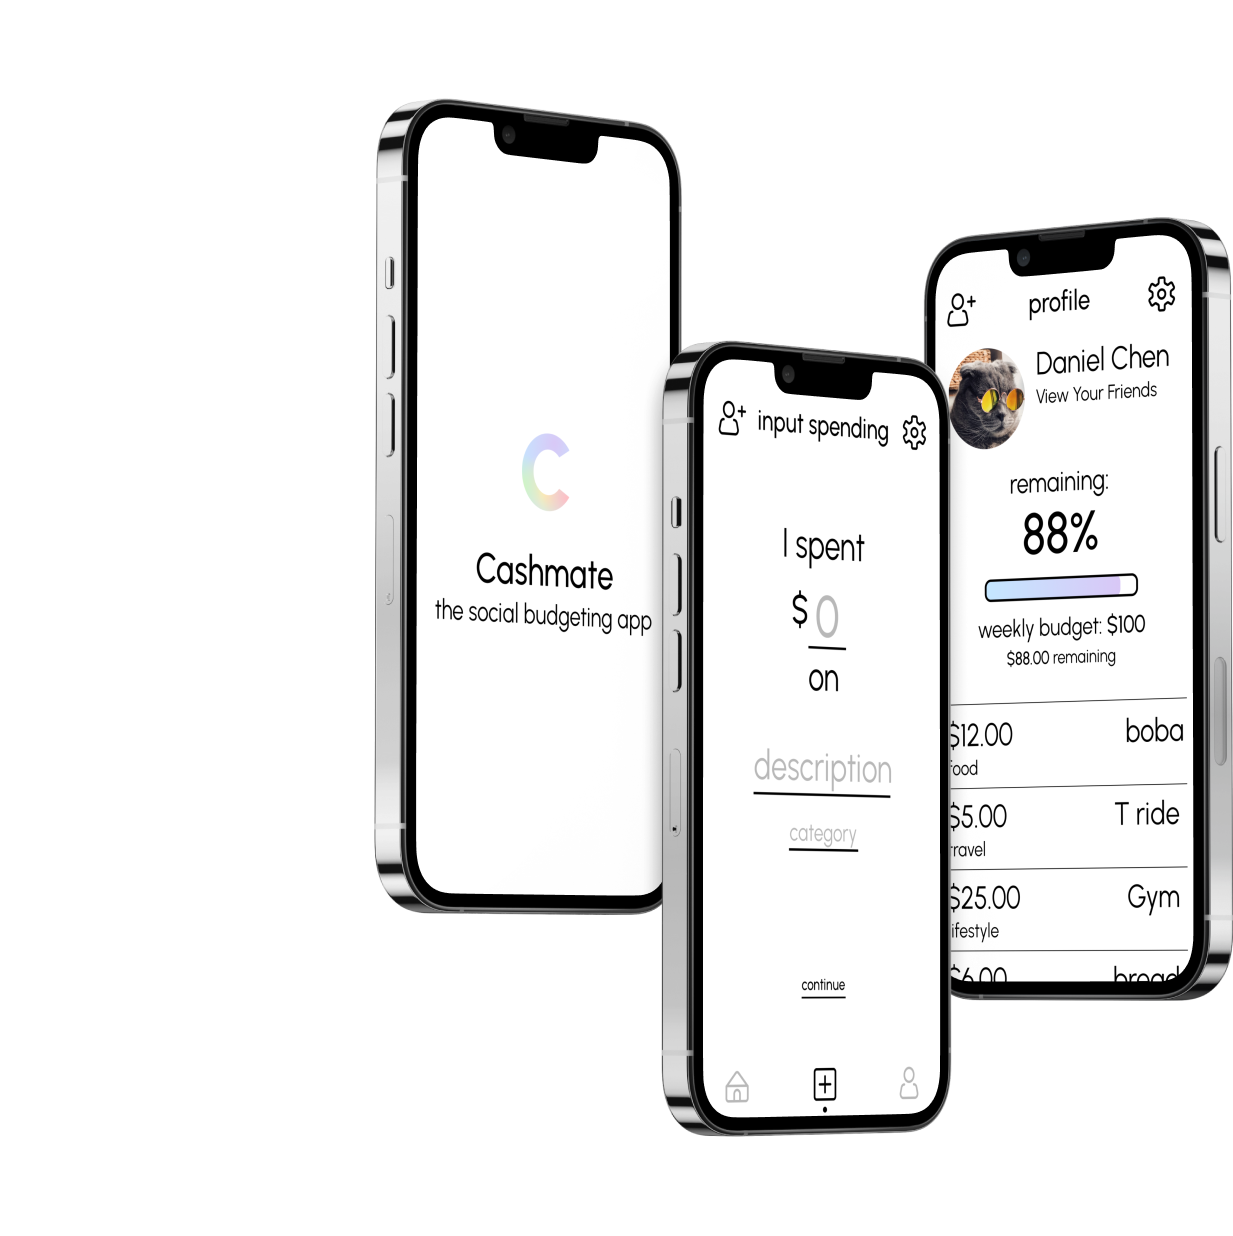
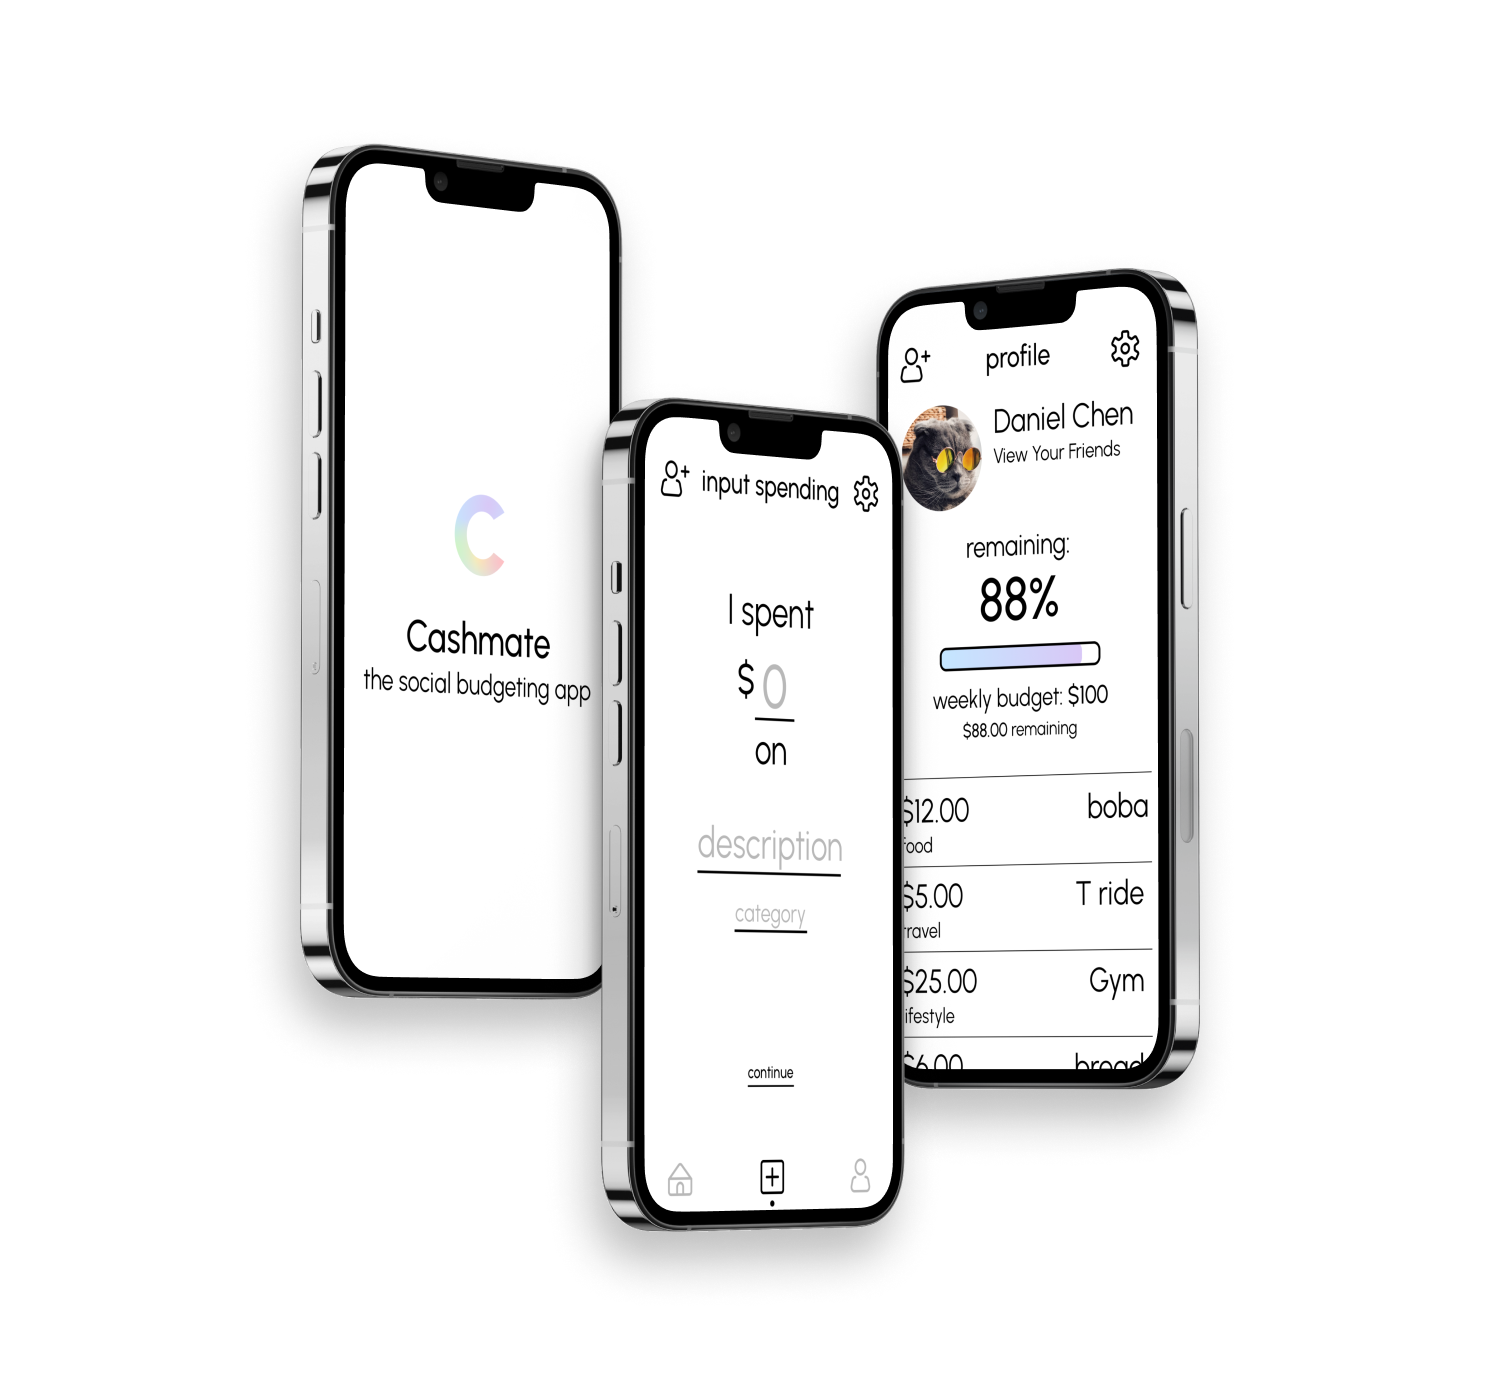
added techtogether and changed all cover mockups to standardized sizes

Changed region(s): [[0.1849, 0.0615, 1.0, 0.9223]]

diff --git a/src/style/Experience.css b/src/style/Experience.css
@@ -1,6 +1,5 @@
 .experience {
     height: 65vh;
-    /* background-color: white; */
     display: flex;
     padding: 2%;
     justify-content: center;
@@ -8,11 +7,11 @@
 }
 
 .experience .exp--left {
-    width: 40%;
+    width: 70vh;
 }
 
 .experience .exp--right {
-    width: 40%;
+    width: 70vh;
 }
 
 .experience .exp--company {
@@ -34,29 +33,35 @@
 }
 
 .experience .exp--img {
-    width: 500px;
+    width: 100%;
 }
 
 /* Tablet size  */
 @media only screen and (max-width: 1024px) {
     .experience {
         display: block;
-        padding: 5%;
+        padding: 10%;
         margin: auto;
-        width: 70%;
+        width: 50%;
     }
-    
-    .experience .exp--left, .exp--right {
-        margin: auto;
+
+    .experience .exp--left {
         width: 100%;
     }
 
-    .exp--right {
-        margin-right: 50%;
+    .experience .exp--img {
+        width: 70%;
+    }
+}
+
+/* Mobile size */
+@media only screen and (max-width: 480px) {
+    .experience {
+        padding: 0;
+        width: 70%;
     }
 
     .experience .exp--img {
-        width: 150%;
-        min-width: 250px;
+        width: 30vh;
     }
 }

diff --git a/src/components/TechTogether.js b/src/components/TechTogether.js
@@ -1,0 +1,37 @@
+import React from "react"
+import "../style/TechTogether.css"
+import Case from "./Case"
+import Step from "./Step"
+import Navbar from "./Navbar"
+import Footer from "./Footer"
+import data from "../static/data.json"
+import TopButton from "./TopButton"
+
+export default function Cashmate() {
+    const caseStudy = data[2].caseStudy
+
+    const stepsEl = caseStudy.steps.map(step => {
+        return (
+            <Step 
+                id={step.id}
+                title={step.title}
+                image={step.image}
+                caption={step.caption}
+            />
+        )
+    })
+
+    return (
+        <div className="techtogether">
+            <Navbar />
+            <Case
+                description={caseStudy.description}
+                role={caseStudy.role}
+                method={caseStudy.method}
+            />
+            {stepsEl}
+            <TopButton />
+            <Footer />
+        </div>
+    )
+}

diff --git a/src/App.js b/src/App.js
@@ -4,6 +4,7 @@ import About from './components/About'
 import { Routes, Route } from 'react-router-dom';
 import Cashmate from './components/Cashmate';
 import BostonHacks from './components/BostonHacks';
+import TechTogether from './components/TechTogether';
 import ScrollToTop from './components/ScrollToTop';
 
 function App() {
@@ -15,6 +16,7 @@ function App() {
           <Route path="about" element={ <About /> } />
           <Route path="cashmate" element={ <Cashmate /> }/>
           <Route path="bostonhacks" element={ <BostonHacks /> }/>
+          <Route path="techtogether" element={ <TechTogether /> }/>
         </Routes>
       </ScrollToTop>
     </div>
